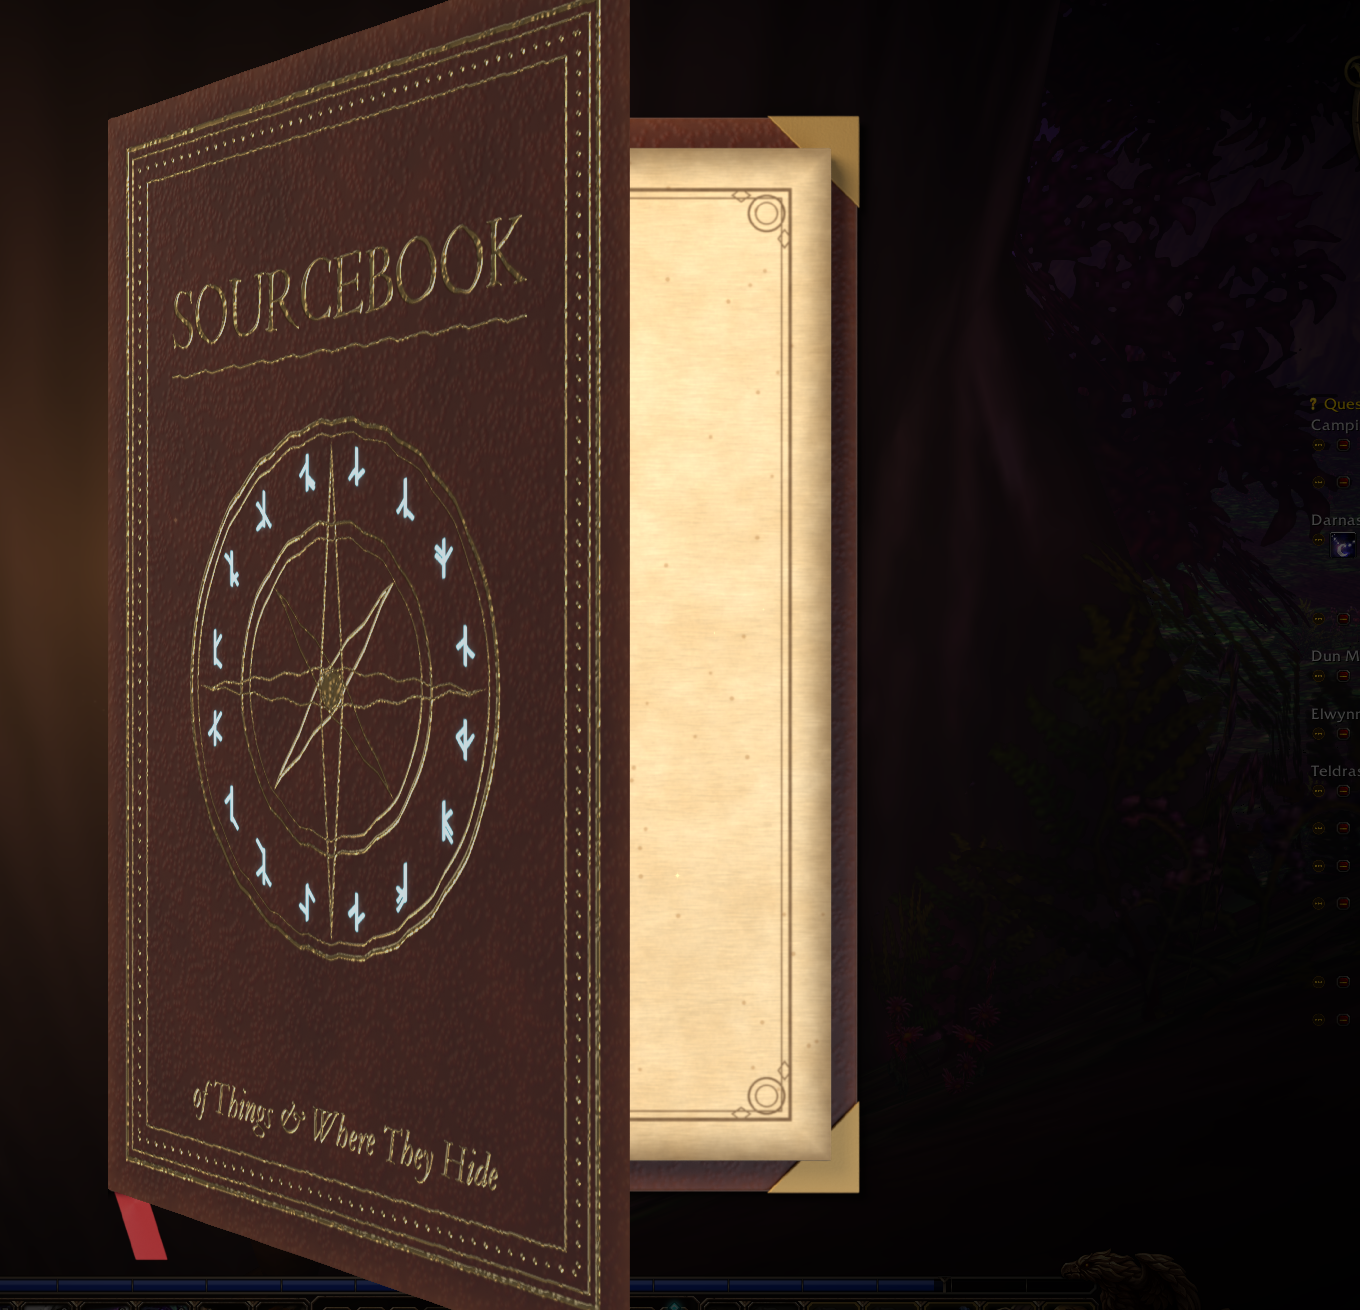
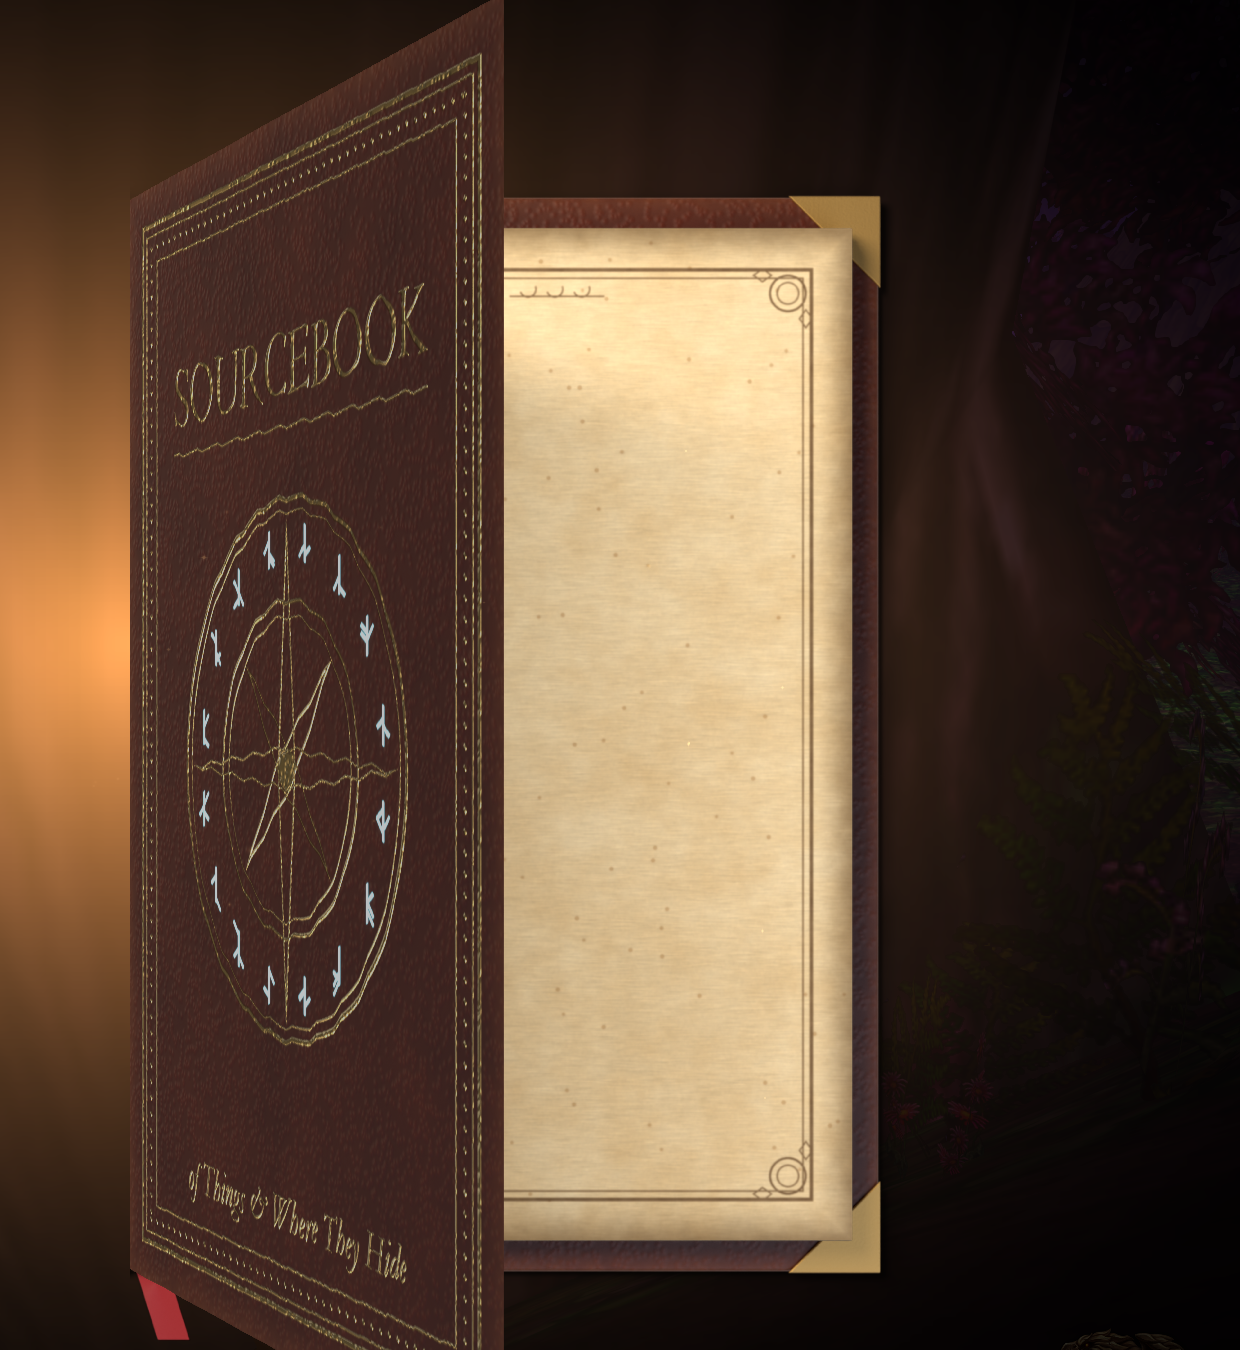
Polish the opening and page turns; full-resolution screenshots
- The standing cover's shadow is its silhouette projected along the
  render's key light: soft, darkest at the hinge, clipped to the page
  (it was a hard-edged rectangle that ran off the page).
- The first opening waits, unseen, for the cover textures to load.
- The light from the pages is an even wash instead of a radial blotch.
- The turning sheet dissolves into the new page's ink while it settles,
  so its stand-in handwriting no longer lingers.
- Recipe rows show the crafted item's icon instead of the generic one.
- Website link in both TOCs and the CurseForge description.
- New in-game screenshots: page turn, opening, index, item, recipe.

Claude-Session: https://claude.ai/code/session_01RbmTbfP1wpUhQvXLkt1Kix

diff --git a/tools/book/simulate.py b/tools/book/simulate.py
@@ -97,6 +97,25 @@ def simulate_open(out_path, W=1100):
 			canvas.alpha_composite(half, (int(gx * W), 0))
 		else:
 			canvas.alpha_composite(spread_small)
+		# The cover's shadow (Book.lua SetCover): outer corners projected along the key light,
+		# clipped to the right page.
+		if 0.001 < g < math.pi - 0.001:
+			LX, LY, LZ = -2.2, 1.9, 4.2
+			def on_page(xw, yw, zw):
+				t = (LZ - HINGE_Z) / (LZ - zw)
+				return project(LX + (xw - LX) * t, LY + (yw - LY) * t, HINGE_Z)
+			ox, oz = board_w * math.cos(g), HINGE_Z + board_w * math.sin(g)
+			quad = [project(0, y_top, HINGE_Z), on_page(ox, y_top, oz), on_page(ox, y_bot, oz), project(0, y_bot, HINGE_Z)]
+			soft = Image.open(os.path.join(MEDIA, "shadow_soft.png")).convert("RGBA")
+			layer = Image.new("RGBA", (W, H), (0, 0, 0, 0))
+			sw = soft.width - 1
+			warp_onto(layer, soft, [(0, 0), (sw, 0), (sw, sw), (0, sw)], quad)
+			a = np.asarray(layer).astype(np.float32)
+			a[..., 3] *= 0.55 * math.sin(g)
+			clip = np.zeros(a.shape[:2])
+			clip[int(R[1] * H):int(R[3] * H), int(R[0] * W):int(R[2] * W)] = 1
+			a[..., 3] *= clip
+			canvas.alpha_composite(Image.fromarray(a.astype(np.uint8), "RGBA"))
 		front = g < math.pi / 2
 		light = (1 - 0.28 * math.sin(g)) if front else (0.78 + 0.22 * -math.cos(g))
 		n = 16

diff --git a/tools/book/pack.py b/tools/book/pack.py
@@ -151,6 +151,18 @@ def fx_textures():
 	xx = np.mgrid[0:h, 0:w][1]
 	band = np.exp(-((xx - w / 2) / (w / 7)) ** 2)
 	sizes["sweep.png"] = save(Image.fromarray(np.dstack([np.full((h, w, 3), 255), band * 255]).astype(np.uint8), "RGBA"), "sweep.png")
+	# The standing cover's shadow: darkest along the hinge (u = 0), fading toward the far edge,
+	# feathered top and bottom. Drawn as a projected quad, so u runs hinge -> outer edge.
+	n = 256
+	yy, xx = np.mgrid[0:n, 0:n] / (n - 1)
+	along = (1 - xx) ** 1.4
+	feather_v = np.clip(np.minimum(yy, 1 - yy) / 0.1, 0, 1)
+	feather_v = feather_v * feather_v * (3 - 2 * feather_v)
+	feather_u = np.clip((1 - xx) / 0.15, 0, 1)
+	a = along * feather_v * feather_u
+	sizes["shadow_soft.png"] = save(Image.fromarray(np.dstack([np.zeros((n, n, 3)), a * 255]).astype(np.uint8), "RGBA"), "shadow_soft.png")
+	# A plain mask (white, opaque) for clipping to a page.
+	sizes["mask.png"] = save(Image.fromarray(np.full((16, 16, 4), 255, dtype=np.uint8), "RGBA"), "mask.png")
 	# Ink rule (a hand-drawn line) for the search box and dividers.
 	w, h = 512, 16
 	img = Image.new("L", (w * 2, h * 2), 0)
